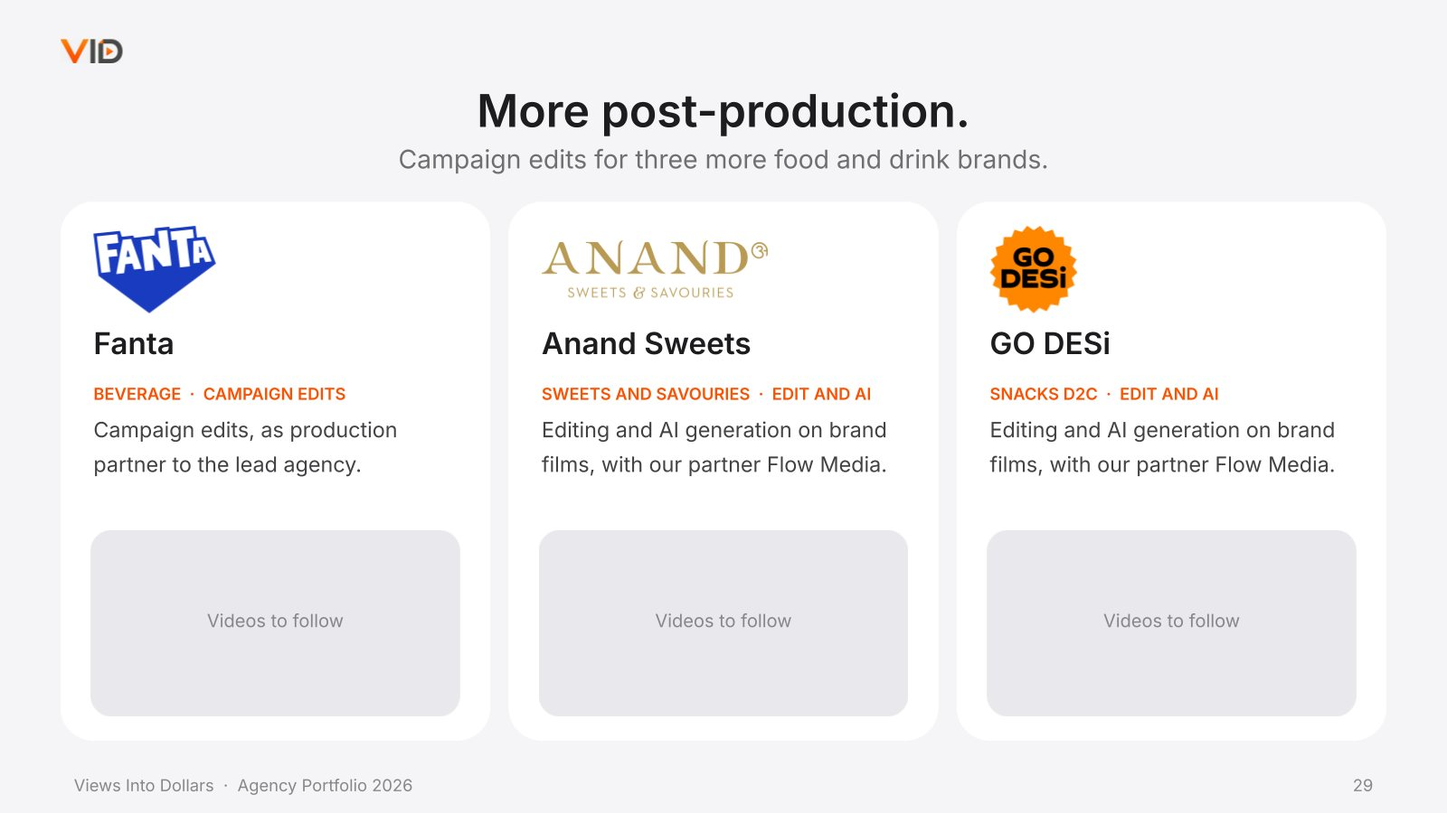
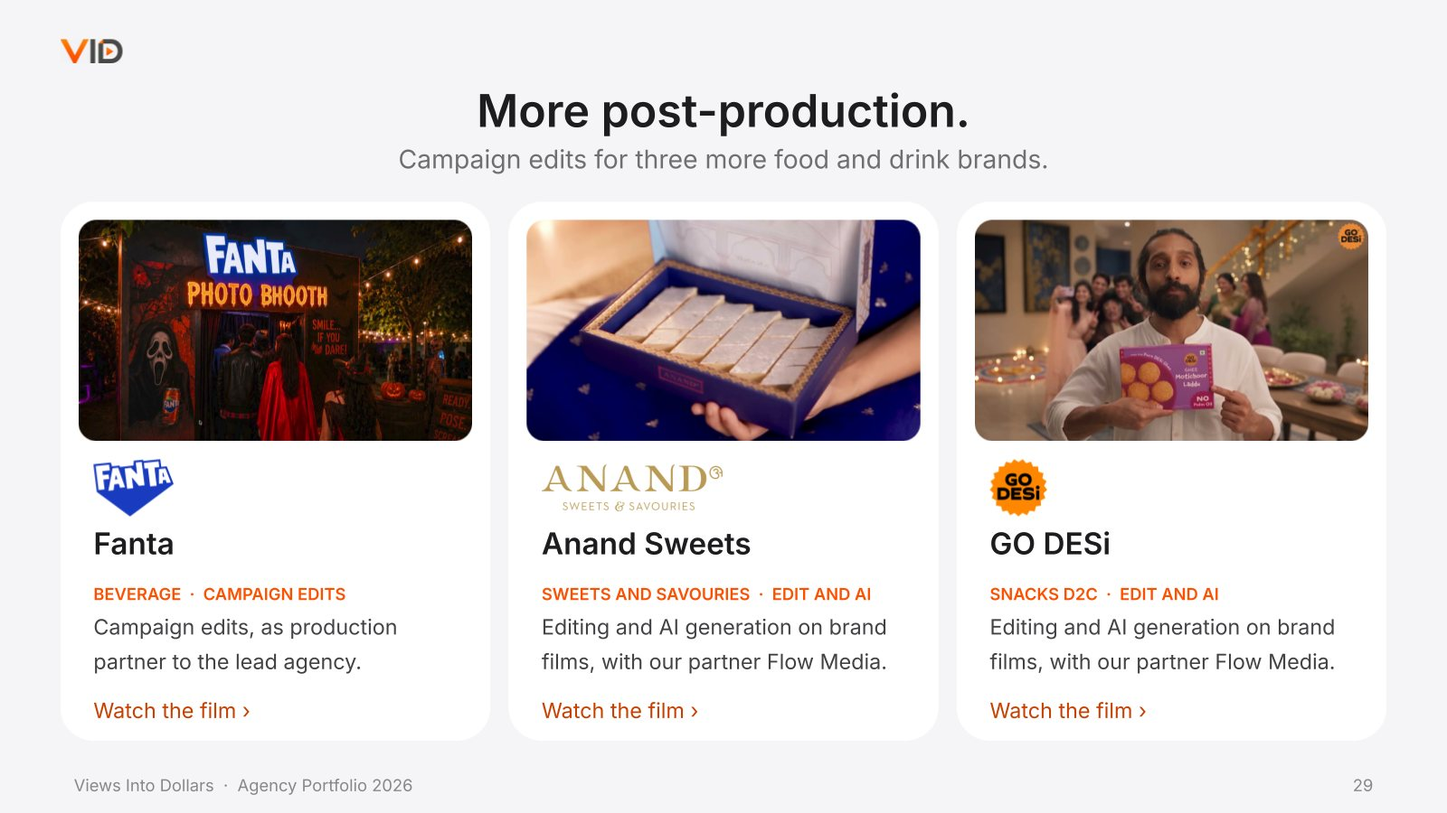
Post-production slide: films for Fanta, Anand Sweets and GO DESi; slide links are clickable on the page

diff --git a/index.html b/index.html
@@ -22,61 +22,64 @@ nav div{display:flex;gap:20px;overflow-x:auto;white-space:nowrap;scrollbar-width
 nav div::-webkit-scrollbar{display:none}
 nav a{color:var(--ink);opacity:.8;text-decoration:none;font-size:13px}
 nav a:hover{opacity:1}
-nav a:focus-visible,main a:focus-visible{outline:2px solid var(--orange);outline-offset:2px;border-radius:6px}
+a:focus-visible{outline:2px solid var(--orange);outline-offset:2px;border-radius:6px}
 main{max-width:1224px;margin:0 auto;padding:var(--gap);display:grid;gap:var(--gap)}
-main a{display:block;border-radius:18px;overflow:hidden}
-main img{display:block;width:100%;height:auto}
+.s{position:relative;border-radius:18px;overflow:hidden}
+.s .f{display:block}
+.s img{display:block;width:100%;height:auto}
+.s .h{position:absolute;border-radius:8px;transition:background-color .2s}
+.s .h:hover{background:rgba(252,81,1,.12)}
 footer{max-width:1224px;margin:0 auto;padding:28px 12px 56px;color:var(--tertiary);font-size:12px;line-height:16px}
-@media (prefers-reduced-motion:reduce){html{scroll-behavior:auto}}
-@media (max-width:734px){main a{border-radius:12px}nav{gap:14px}}
+@media (prefers-reduced-motion:reduce){html{scroll-behavior:auto}.s .h{transition:none}}
+@media (max-width:734px){.s{border-radius:12px}nav{gap:14px}}
 </style>
 </head>
 <body>
-<nav aria-label="Sections"><a href="#top" aria-label="Views Into Dollars, back to top"><img src="assets/vid-logo.png" alt="VID"></a><div><a href="#s0">Organic growth and personal brands</a><a href="#s1">Film and ad production</a><a href="#s2">Post-production</a><a href="#s3">Performance creative</a><a href="#s4">Motion design and explainers</a><a href="#s5">Websites and UI/UX</a><a href="#s6">Our team&#x27;s work</a></div></nav>
-<main id="top">
-<a href="assets/slide-01.jpg"><img src="assets/slide-01.jpg" width="1600" height="900" alt="AGENCY PORTFOLIO 2026 Content that turns views into revenue. Views Into Dollars is a content and growth agency. One team plans, shoots, edits and grows your content, with three spe" decoding="async"></a>
-<a href="assets/slide-02.jpg"><img src="assets/slide-02.jpg" width="1600" height="900" alt="Views Into Dollars · Agency Portfolio 2026 02 Brands we have worked with. 1 of 2 SPORT AND ENTERTAINMENT FIFA World Cup 26 Scuderia Ferrari Silver Sevens Jordindian FINANCE AND INS" decoding="async"></a>
-<a href="assets/slide-03.jpg"><img src="assets/slide-03.jpg" width="1600" height="900" alt="Views Into Dollars · Agency Portfolio 2026 03 Brands we have worked with. 2 of 2 BEAUTY AND PERSONAL CARE Deconstruct Amright Revyur Janma Care HEALTH AND HOME Nutriosa TECH AND B2" loading="lazy" decoding="async"></a>
-<a href="assets/slide-04.jpg"><img src="assets/slide-04.jpg" width="1600" height="900" alt="Views Into Dollars · Agency Portfolio 2026 04 Who does the work. Views Into Dollars leads every engagement. Our partner studios work alongside us. Views Into Dollars Strategy, scri" loading="lazy" decoding="async"></a>
-<a href="assets/slide-05.jpg"><img src="assets/slide-05.jpg" width="1600" height="900" alt="Views Into Dollars · Agency Portfolio 2026 05 The people behind the work. Who you will be working with. Jayesh Sinha Founder Views Into Dollars Swapnil Anand Founder Brands Benchma" loading="lazy" decoding="async"></a>
-<a href="assets/slide-06.jpg"><img src="assets/slide-06.jpg" width="1600" height="900" alt="Views Into Dollars · Agency Portfolio 2026 06 What we do. One partner for the whole job. Social media Strategy, monthly plans, community and reporting. Short-form video Reels and S" loading="lazy" decoding="async"></a>
-<a href="assets/slide-07.jpg"><img src="assets/slide-07.jpg" width="1600" height="900" alt="Views Into Dollars · Agency Portfolio 2026 07 What&#x27;s inside. Seven kinds of work, each with its own section. 01 Organic growth and personal brands Sahaj Talwar, Right Now With Roha" loading="lazy" decoding="async"></a>
-<a id="s0" href="assets/slide-08.jpg"><img src="assets/slide-08.jpg" width="1600" height="900" alt="Views Into Dollars · Agency Portfolio 2026 08 01 Organic growth and personal brands Audiences built from zero, and turned into leads, revenue and a brand people recognise. Sahaj Ta" loading="lazy" decoding="async"></a>
-<a href="assets/slide-09.jpg"><img src="assets/slide-09.jpg" width="1600" height="900" alt="Views Into Dollars · Agency Portfolio 2026 09 Sahaj Talwar Personal brand · Content strategy · Organic leads A self-improvement and life coaching creator with real presence on came" loading="lazy" decoding="async"></a>
-<a href="assets/slide-10.jpg"><img src="assets/slide-10.jpg" width="1600" height="900" alt="Views Into Dollars · Agency Portfolio 2026 10 SAHAJ TALWAR · THE RESULTS 17,000+ organic leads from a comment-to-DM funnel 101K followers 60M+ views 100% organic A reel asks viewer" loading="lazy" decoding="async"></a>
-<a href="assets/slide-11.jpg"><img src="assets/slide-11.jpg" width="1600" height="900" alt="Views Into Dollars · Agency Portfolio 2026 11 Right Now With Rohan Podcast · Distribution · Positioning A Hindi long-form interview podcast hosted by Red FM&#x27;s RJ Rohan, launched fr" loading="lazy" decoding="async"></a>
-<a href="assets/slide-12.jpg"><img src="assets/slide-12.jpg" width="1600" height="900" alt="Views Into Dollars · Agency Portfolio 2026 12 RIGHT NOW WITH ROHAN · THE RESULTS 600M+ views across platforms in a year 262K youtube subscribers 113K instagram followers $40K+ reve" loading="lazy" decoding="async"></a>
-<a href="assets/slide-13.jpg"><img src="assets/slide-13.jpg" width="1600" height="900" alt="Views Into Dollars · Agency Portfolio 2026 13 Expert Panel Financial services · Organic Instagram A debt resolution company that helps people settle with their banks, in a category" loading="lazy" decoding="async"></a>
-<a href="assets/slide-14.jpg"><img src="assets/slide-14.jpg" width="1600" height="900" alt="Views Into Dollars · Agency Portfolio 2026 14 Devraj Pant Creator · Video production and editing A finance creator and co-founder of Preparoo who needed his time back for being on " loading="lazy" decoding="async"></a>
-<a href="assets/slide-15.jpg"><img src="assets/slide-15.jpg" width="1600" height="900" alt="Views Into Dollars · Agency Portfolio 2026 15 Dhru Ronghe @greekgod2208 · Fitness creator · Strategy and production A fitness creator who shares the unpolished side of lifting. We " loading="lazy" decoding="async"></a>
-<a href="assets/slide-16.jpg"><img src="assets/slide-16.jpg" width="1600" height="900" alt="Views Into Dollars · Agency Portfolio 2026 16 DHRU RONGHE · THE RESULTS 67K instagram followers today. Growth numbers to follow. Three headline metrics to follow (views, growth, le" loading="lazy" decoding="async"></a>
-<a href="assets/slide-17.jpg"><img src="assets/slide-17.jpg" width="1600" height="900" alt="Views Into Dollars · Agency Portfolio 2026 17 Nitin Tewari @mr.bartrender · Bartender and creator · Post-production One of India&#x27;s best-known bartenders on Instagram. We handle pos" loading="lazy" decoding="async"></a>
-<a id="s1" href="assets/slide-18.jpg"><img src="assets/slide-18.jpg" width="1600" height="900" alt="Views Into Dollars · Agency Portfolio 2026 18 02 Film and ad production Shoots we directed, shot and cut: brand films, celebrity campaigns, launch days and TVCs. Scuderia Ferrari ×" loading="lazy" decoding="async"></a>
-<a href="assets/slide-19.jpg"><img src="assets/slide-19.jpg" width="1600" height="900" alt="Views Into Dollars · Agency Portfolio 2026 19 Scuderia Ferrari × ZCG Motorsport · Las Vegas Grand Prix 2023 ZCG and the Silver Sevens Hotel and Casino partnered with Scuderia Ferra" loading="lazy" decoding="async"></a>
-<a href="assets/slide-20.jpg"><img src="assets/slide-20.jpg" width="1600" height="900" alt="Views Into Dollars · Agency Portfolio 2026 20 Deconstruct Skincare D2C · Product films · 3D A science-led skincare brand whose serum texture looked wrong on camera, so the ads unde" loading="lazy" decoding="async"></a>
-<a href="assets/slide-21.jpg"><img src="assets/slide-21.jpg" width="1600" height="900" alt="Views Into Dollars · Agency Portfolio 2026 21 Scrub Story Apparel D2C · Creative direction · Launch shoot A medical scrubs brand preparing a launch, burnt by a previous shoot that " loading="lazy" decoding="async"></a>
-<a href="assets/slide-22.jpg"><img src="assets/slide-22.jpg" width="1600" height="900" alt="Views Into Dollars · Agency Portfolio 2026 22 Star Health Insurance Insurance · Celebrity campaign A national health insurance campaign built around celebrity talent. The films wer" loading="lazy" decoding="async"></a>
-<a href="assets/slide-23.jpg"><img src="assets/slide-23.jpg" width="1600" height="900" alt="Views Into Dollars · Agency Portfolio 2026 23 More from the production bench. ProFX: AI brand film A finished AI visual film, art-directed and delivered in half a day. AI speeds up" loading="lazy" decoding="async"></a>
-<a id="s2" href="assets/slide-24.jpg"><img src="assets/slide-24.jpg" width="1600" height="900" alt="Views Into Dollars · Agency Portfolio 2026 24 03 Post-production Footage in, finished films and ads out: edits, motion, captions and versions for every placement. FIFA World Cup 26" loading="lazy" decoding="async"></a>
-<a href="assets/slide-25.jpg"><img src="assets/slide-25.jpg" width="1600" height="900" alt="Views Into Dollars · Agency Portfolio 2026 25 FIFA World Cup 26 Sport · Broadcast campaign · Post-production Campaign work around the FIFA World Cup 26 broadcast on Zee5: huge volu" loading="lazy" decoding="async"></a>
-<a href="assets/slide-26.jpg"><img src="assets/slide-26.jpg" width="1600" height="900" alt="Views Into Dollars · Agency Portfolio 2026 26 FIFA WORLD CUP 26 · THE RESULTS 500+ videos produced in 45 days 90M+ views generated 80K+ followers added" loading="lazy" decoding="async"></a>
-<a href="assets/slide-27.jpg"><img src="assets/slide-27.jpg" width="1600" height="900" alt="Views Into Dollars · Agency Portfolio 2026 27 PhonePe Fintech · Campaign film · Post-production Post-production and editing on campaign films, as production partner to the lead age" loading="lazy" decoding="async"></a>
-<a href="assets/slide-28.jpg"><img src="assets/slide-28.jpg" width="1600" height="900" alt="Views Into Dollars · Agency Portfolio 2026 28 Epigamia D2C food · Campaign film · Post-production Post-production and editing on campaign work for the yoghurt brand, as production " loading="lazy" decoding="async"></a>
-<a href="assets/slide-29.jpg"><img src="assets/slide-29.jpg" width="1600" height="900" alt="Views Into Dollars · Agency Portfolio 2026 29 More post-production. Campaign edits for three more food and drink brands. Fanta BEVERAGE · CAMPAIGN EDITS Campaign edits, as producti" loading="lazy" decoding="async"></a>
-<a href="assets/slide-30.jpg"><img src="assets/slide-30.jpg" width="1600" height="900" alt="Views Into Dollars · Agency Portfolio 2026 30 The D2C ad library. Finished performance ads for consumer brands. Our scope: post-production only. 51 finished ads, cut for 9:16, 1:1 " loading="lazy" decoding="async"></a>
-<a id="s3" href="assets/slide-31.jpg"><img src="assets/slide-31.jpg" width="1600" height="900" alt="Views Into Dollars · Agency Portfolio 2026 31 04 Performance creative Ads built to sell: claims readable at feed speed, archives turned into clips. The Actor&#x27;s Truth · Preparoo · H" loading="lazy" decoding="async"></a>
-<a href="assets/slide-32.jpg"><img src="assets/slide-32.jpg" width="1600" height="900" alt="Views Into Dollars · Agency Portfolio 2026 32 The Actor&#x27;s Truth Education · Content repurposing · Ads An online acting course sitting on 100+ hours of recorded teaching and no shor" loading="lazy" decoding="async"></a>
-<a href="assets/slide-33.jpg"><img src="assets/slide-33.jpg" width="1600" height="900" alt="Views Into Dollars · Agency Portfolio 2026 33 Preparoo Edtech · Performance ad editing An exam prep community across CFA, CAT and CUET, needing ad and short-form edits every month." loading="lazy" decoding="async"></a>
-<a href="assets/slide-34.jpg"><img src="assets/slide-34.jpg" width="1600" height="900" alt="Views Into Dollars · Agency Portfolio 2026 34 House of Veda Organic food and ayurveda D2C · Design Teas, supplements, cold-pressed oils and grains, sold on traditional processing r" loading="lazy" decoding="async"></a>
-<a id="s4" href="assets/slide-35.jpg"><img src="assets/slide-35.jpg" width="1600" height="900" alt="Views Into Dollars · Agency Portfolio 2026 35 05 Motion design and explainers Products with nothing to film, explained in under a minute. Clairon AI · Rawa · Livechance" loading="lazy" decoding="async"></a>
-<a href="assets/slide-36.jpg"><img src="assets/slide-36.jpg" width="1600" height="900" alt="Views Into Dollars · Agency Portfolio 2026 36 Product explainers. Clairon AI An AI product with nothing physical to film. Rawa The product made clear in one short film. Livechance " loading="lazy" decoding="async"></a>
-<a id="s5" href="assets/slide-37.jpg"><img src="assets/slide-37.jpg" width="1600" height="900" alt="Views Into Dollars · Agency Portfolio 2026 37 06 Websites and UI/UX Discovery, wireframes, UI in Figma, prototype, build handoff. Twelve industries so far, with Brands Benchmark. H" loading="lazy" decoding="async"></a>
-<a href="assets/slide-38.jpg"><img src="assets/slide-38.jpg" width="1600" height="900" alt="Views Into Dollars · Agency Portfolio 2026 38 Website design. 1 of 2 Healthcare Media production Perfume Devotional retail Home furnishing Optical retail" loading="lazy" decoding="async"></a>
-<a href="assets/slide-39.jpg"><img src="assets/slide-39.jpg" width="1600" height="900" alt="Views Into Dollars · Agency Portfolio 2026 39 Website design. 2 of 2 Furniture Speciality coffee Cosmetics Luxury accessories Agriculture retail Makhana" loading="lazy" decoding="async"></a>
-<a id="s6" href="assets/slide-40.jpg"><img src="assets/slide-40.jpg" width="1600" height="900" alt="Views Into Dollars · Agency Portfolio 2026 40 07 Our team&#x27;s work Social, brand and content work led by members of our team. Atharva Oceana · Renv8 Spaces · Nutriosa · Janma Care · " loading="lazy" decoding="async"></a>
-<a href="assets/slide-41.jpg"><img src="assets/slide-41.jpg" width="1600" height="900" alt="Views Into Dollars · Agency Portfolio 2026 41 Brand and social content. Feeds, campaigns and launches run by our team. Atharva Oceana 65% increase in reach 500K+ campaign impressio" loading="lazy" decoding="async"></a>
-<a href="assets/slide-42.jpg"><img src="assets/slide-42.jpg" width="1600" height="900" alt="Views Into Dollars · Agency Portfolio 2026 42 More from the team. Social and content work led by members of our team. Food Entrepreneurs Summit EVENTS ReliefVeda AYURVEDA SBOOCH KO" loading="lazy" decoding="async"></a>
-<a href="assets/slide-43.jpg"><img src="assets/slide-43.jpg" width="1600" height="900" alt="Views Into Dollars · Agency Portfolio 2026 43 Let&#x27;s make something worth watching. Jayesh jayesh@viewsintodollars.com Phone +91 91121 37827 Swapnil swapnil@brandsbenchmark.com" loading="lazy" decoding="async"></a>
+<nav aria-label="Sections"><a href="#n1" aria-label="Views Into Dollars, back to top"><img src="assets/vid-logo.png" alt="VID"></a><div><a href="#n8">Organic growth and personal brands</a><a href="#n18">Film and ad production</a><a href="#n24">Post-production</a><a href="#n31">Performance creative</a><a href="#n35">Motion design and explainers</a><a href="#n37">Websites and UI/UX</a><a href="#n40">Our team&#x27;s work</a></div></nav>
+<main>
+<div class="s" id="n1"><a class="f" href="assets/slide-01.jpg"><img src="assets/slide-01.jpg" width="1600" height="900" alt="AGENCY PORTFOLIO 2026 Content that turns views into revenue. Views Into Dollars is a content and growth agency. One team plans, shoots, edits and grows your content, with three spe" decoding="async"></a><a class="h" href="#n8" aria-label="See the work" style="left:5.83%;top:84.44%;width:12.16%;height:5.56%"></a><a class="h" href="#n2" aria-label="The brands" style="left:19.24%;top:84.44%;width:10.94%;height:5.56%"></a></div>
+<div class="s" id="n2"><a class="f" href="assets/slide-02.jpg"><img src="assets/slide-02.jpg" width="1600" height="900" alt="Views Into Dollars · Agency Portfolio 2026 02 Brands we have worked with. 1 of 2 SPORT AND ENTERTAINMENT FIFA World Cup 26 Scuderia Ferrari Silver Sevens Jordindian FINANCE AND INS" decoding="async"></a></div>
+<div class="s" id="n3"><a class="f" href="assets/slide-03.jpg"><img src="assets/slide-03.jpg" width="1600" height="900" alt="Views Into Dollars · Agency Portfolio 2026 03 Brands we have worked with. 2 of 2 BEAUTY AND PERSONAL CARE Deconstruct Amright Revyur Janma Care HEALTH AND HOME Nutriosa TECH AND B2" loading="lazy" decoding="async"></a></div>
+<div class="s" id="n4"><a class="f" href="assets/slide-04.jpg"><img src="assets/slide-04.jpg" width="1600" height="900" alt="Views Into Dollars · Agency Portfolio 2026 04 Who does the work. Views Into Dollars leads every engagement. Our partner studios work alongside us. Views Into Dollars Strategy, scri" loading="lazy" decoding="async"></a></div>
+<div class="s" id="n5"><a class="f" href="assets/slide-05.jpg"><img src="assets/slide-05.jpg" width="1600" height="900" alt="Views Into Dollars · Agency Portfolio 2026 05 The people behind the work. Who you will be working with. Jayesh Sinha Founder Views Into Dollars Swapnil Anand Founder Brands Benchma" loading="lazy" decoding="async"></a></div>
+<div class="s" id="n6"><a class="f" href="assets/slide-06.jpg"><img src="assets/slide-06.jpg" width="1600" height="900" alt="Views Into Dollars · Agency Portfolio 2026 06 What we do. One partner for the whole job. Social media Strategy, monthly plans, community and reporting. Short-form video Reels and S" loading="lazy" decoding="async"></a></div>
+<div class="s" id="n7"><a class="f" href="assets/slide-07.jpg"><img src="assets/slide-07.jpg" width="1600" height="900" alt="Views Into Dollars · Agency Portfolio 2026 07 What&#x27;s inside. Seven kinds of work, each with its own section. 01 Organic growth and personal brands Sahaj Talwar, Right Now With Roha" loading="lazy" decoding="async"></a></div>
+<div class="s" id="n8"><a class="f" href="assets/slide-08.jpg"><img src="assets/slide-08.jpg" width="1600" height="900" alt="Views Into Dollars · Agency Portfolio 2026 08 01 Organic growth and personal brands Audiences built from zero, and turned into leads, revenue and a brand people recognise. Sahaj Ta" loading="lazy" decoding="async"></a></div>
+<div class="s" id="n9"><a class="f" href="assets/slide-09.jpg"><img src="assets/slide-09.jpg" width="1600" height="900" alt="Views Into Dollars · Agency Portfolio 2026 09 Sahaj Talwar Personal brand · Content strategy · Organic leads A self-improvement and life coaching creator with real presence on came" loading="lazy" decoding="async"></a></div>
+<div class="s" id="n10"><a class="f" href="assets/slide-10.jpg"><img src="assets/slide-10.jpg" width="1600" height="900" alt="Views Into Dollars · Agency Portfolio 2026 10 SAHAJ TALWAR · THE RESULTS 17,000+ organic leads from a comment-to-DM funnel 101K followers 60M+ views 100% organic A reel asks viewer" loading="lazy" decoding="async"></a></div>
+<div class="s" id="n11"><a class="f" href="assets/slide-11.jpg"><img src="assets/slide-11.jpg" width="1600" height="900" alt="Views Into Dollars · Agency Portfolio 2026 11 Right Now With Rohan Podcast · Distribution · Positioning A Hindi long-form interview podcast hosted by Red FM&#x27;s RJ Rohan, launched fr" loading="lazy" decoding="async"></a></div>
+<div class="s" id="n12"><a class="f" href="assets/slide-12.jpg"><img src="assets/slide-12.jpg" width="1600" height="900" alt="Views Into Dollars · Agency Portfolio 2026 12 RIGHT NOW WITH ROHAN · THE RESULTS 600M+ views across platforms in a year 262K youtube subscribers 113K instagram followers $40K+ reve" loading="lazy" decoding="async"></a></div>
+<div class="s" id="n13"><a class="f" href="assets/slide-13.jpg"><img src="assets/slide-13.jpg" width="1600" height="900" alt="Views Into Dollars · Agency Portfolio 2026 13 Expert Panel Financial services · Organic Instagram A debt resolution company that helps people settle with their banks, in a category" loading="lazy" decoding="async"></a></div>
+<div class="s" id="n14"><a class="f" href="assets/slide-14.jpg"><img src="assets/slide-14.jpg" width="1600" height="900" alt="Views Into Dollars · Agency Portfolio 2026 14 Devraj Pant Creator · Video production and editing A finance creator and co-founder of Preparoo who needed his time back for being on " loading="lazy" decoding="async"></a></div>
+<div class="s" id="n15"><a class="f" href="assets/slide-15.jpg"><img src="assets/slide-15.jpg" width="1600" height="900" alt="Views Into Dollars · Agency Portfolio 2026 15 Dhru Ronghe @greekgod2208 · Fitness creator · Strategy and production A fitness creator who shares the unpolished side of lifting. We " loading="lazy" decoding="async"></a></div>
+<div class="s" id="n16"><a class="f" href="assets/slide-16.jpg"><img src="assets/slide-16.jpg" width="1600" height="900" alt="Views Into Dollars · Agency Portfolio 2026 16 DHRU RONGHE · THE RESULTS 67K instagram followers today. Growth numbers to follow. Three headline metrics to follow (views, growth, le" loading="lazy" decoding="async"></a></div>
+<div class="s" id="n17"><a class="f" href="assets/slide-17.jpg"><img src="assets/slide-17.jpg" width="1600" height="900" alt="Views Into Dollars · Agency Portfolio 2026 17 Nitin Tewari @mr.bartrender · Bartender and creator · Post-production One of India&#x27;s best-known bartenders on Instagram. We handle pos" loading="lazy" decoding="async"></a></div>
+<div class="s" id="n18"><a class="f" href="assets/slide-18.jpg"><img src="assets/slide-18.jpg" width="1600" height="900" alt="Views Into Dollars · Agency Portfolio 2026 18 02 Film and ad production Shoots we directed, shot and cut: brand films, celebrity campaigns, launch days and TVCs. Scuderia Ferrari ×" loading="lazy" decoding="async"></a></div>
+<div class="s" id="n19"><a class="f" href="assets/slide-19.jpg"><img src="assets/slide-19.jpg" width="1600" height="900" alt="Views Into Dollars · Agency Portfolio 2026 19 Scuderia Ferrari × ZCG Motorsport · Las Vegas Grand Prix 2023 ZCG and the Silver Sevens Hotel and Casino partnered with Scuderia Ferra" loading="lazy" decoding="async"></a></div>
+<div class="s" id="n20"><a class="f" href="assets/slide-20.jpg"><img src="assets/slide-20.jpg" width="1600" height="900" alt="Views Into Dollars · Agency Portfolio 2026 20 Deconstruct Skincare D2C · Product films · 3D A science-led skincare brand whose serum texture looked wrong on camera, so the ads unde" loading="lazy" decoding="async"></a></div>
+<div class="s" id="n21"><a class="f" href="assets/slide-21.jpg"><img src="assets/slide-21.jpg" width="1600" height="900" alt="Views Into Dollars · Agency Portfolio 2026 21 Scrub Story Apparel D2C · Creative direction · Launch shoot A medical scrubs brand preparing a launch, burnt by a previous shoot that " loading="lazy" decoding="async"></a></div>
+<div class="s" id="n22"><a class="f" href="assets/slide-22.jpg"><img src="assets/slide-22.jpg" width="1600" height="900" alt="Views Into Dollars · Agency Portfolio 2026 22 Star Health Insurance Insurance · Celebrity campaign A national health insurance campaign built around celebrity talent. The films wer" loading="lazy" decoding="async"></a></div>
+<div class="s" id="n23"><a class="f" href="assets/slide-23.jpg"><img src="assets/slide-23.jpg" width="1600" height="900" alt="Views Into Dollars · Agency Portfolio 2026 23 More from the production bench. ProFX: AI brand film A finished AI visual film, art-directed and delivered in half a day. AI speeds up" loading="lazy" decoding="async"></a></div>
+<div class="s" id="n24"><a class="f" href="assets/slide-24.jpg"><img src="assets/slide-24.jpg" width="1600" height="900" alt="Views Into Dollars · Agency Portfolio 2026 24 03 Post-production Footage in, finished films and ads out: edits, motion, captions and versions for every placement. FIFA World Cup 26" loading="lazy" decoding="async"></a></div>
+<div class="s" id="n25"><a class="f" href="assets/slide-25.jpg"><img src="assets/slide-25.jpg" width="1600" height="900" alt="Views Into Dollars · Agency Portfolio 2026 25 FIFA World Cup 26 Sport · Broadcast campaign · Post-production Campaign work around the FIFA World Cup 26 broadcast on Zee5: huge volu" loading="lazy" decoding="async"></a></div>
+<div class="s" id="n26"><a class="f" href="assets/slide-26.jpg"><img src="assets/slide-26.jpg" width="1600" height="900" alt="Views Into Dollars · Agency Portfolio 2026 26 FIFA WORLD CUP 26 · THE RESULTS 500+ videos produced in 45 days 90M+ views generated 80K+ followers added" loading="lazy" decoding="async"></a></div>
+<div class="s" id="n27"><a class="f" href="assets/slide-27.jpg"><img src="assets/slide-27.jpg" width="1600" height="900" alt="Views Into Dollars · Agency Portfolio 2026 27 PhonePe Fintech · Campaign film · Post-production Post-production and editing on campaign films, as production partner to the lead age" loading="lazy" decoding="async"></a></div>
+<div class="s" id="n28"><a class="f" href="assets/slide-28.jpg"><img src="assets/slide-28.jpg" width="1600" height="900" alt="Views Into Dollars · Agency Portfolio 2026 28 Epigamia D2C food · Campaign film · Post-production Post-production and editing on campaign work for the yoghurt brand, as production " loading="lazy" decoding="async"></a></div>
+<div class="s" id="n29"><a class="f" href="assets/slide-29.jpg"><img src="assets/slide-29.jpg" width="1600" height="900" alt="Views Into Dollars · Agency Portfolio 2026 29 More post-production. Campaign edits for three more food and drink brands. Fanta BEVERAGE · CAMPAIGN EDITS Campaign edits, as producti" loading="lazy" decoding="async"></a><a class="h" href="https://f.io/-JLRb_pE" target="_blank" rel="noopener" aria-label="Watch the film" style="left:5.42%;top:27.04%;width:27.22%;height:27.22%"></a><a class="h" href="https://f.io/-JLRb_pE" target="_blank" rel="noopener" aria-label="Watch the film ›" style="left:5.52%;top:85.56%;width:27.01%;height:4.08%"></a><a class="h" href="https://www.instagram.com/reel/DfCPw4ZB6Az/" target="_blank" rel="noopener" aria-label="Watch the film" style="left:36.39%;top:27.04%;width:27.22%;height:27.22%"></a><a class="h" href="https://www.instagram.com/reel/DfCPw4ZB6Az/" target="_blank" rel="noopener" aria-label="Watch the film ›" style="left:36.49%;top:85.56%;width:27.01%;height:4.08%"></a><a class="h" href="https://www.instagram.com/reel/DewTfLAzKmW/" target="_blank" rel="noopener" aria-label="Watch the film" style="left:67.36%;top:27.04%;width:27.22%;height:27.22%"></a><a class="h" href="https://www.instagram.com/reel/DewTfLAzKmW/" target="_blank" rel="noopener" aria-label="Watch the film ›" style="left:67.46%;top:85.56%;width:27.01%;height:4.08%"></a></div>
+<div class="s" id="n30"><a class="f" href="assets/slide-30.jpg"><img src="assets/slide-30.jpg" width="1600" height="900" alt="Views Into Dollars · Agency Portfolio 2026 30 The D2C ad library. Finished performance ads for consumer brands. Our scope: post-production only. 51 finished ads, cut for 9:16, 1:1 " loading="lazy" decoding="async"></a></div>
+<div class="s" id="n31"><a class="f" href="assets/slide-31.jpg"><img src="assets/slide-31.jpg" width="1600" height="900" alt="Views Into Dollars · Agency Portfolio 2026 31 04 Performance creative Ads built to sell: claims readable at feed speed, archives turned into clips. The Actor&#x27;s Truth · Preparoo · H" loading="lazy" decoding="async"></a></div>
+<div class="s" id="n32"><a class="f" href="assets/slide-32.jpg"><img src="assets/slide-32.jpg" width="1600" height="900" alt="Views Into Dollars · Agency Portfolio 2026 32 The Actor&#x27;s Truth Education · Content repurposing · Ads An online acting course sitting on 100+ hours of recorded teaching and no shor" loading="lazy" decoding="async"></a></div>
+<div class="s" id="n33"><a class="f" href="assets/slide-33.jpg"><img src="assets/slide-33.jpg" width="1600" height="900" alt="Views Into Dollars · Agency Portfolio 2026 33 Preparoo Edtech · Performance ad editing An exam prep community across CFA, CAT and CUET, needing ad and short-form edits every month." loading="lazy" decoding="async"></a></div>
+<div class="s" id="n34"><a class="f" href="assets/slide-34.jpg"><img src="assets/slide-34.jpg" width="1600" height="900" alt="Views Into Dollars · Agency Portfolio 2026 34 House of Veda Organic food and ayurveda D2C · Design Teas, supplements, cold-pressed oils and grains, sold on traditional processing r" loading="lazy" decoding="async"></a></div>
+<div class="s" id="n35"><a class="f" href="assets/slide-35.jpg"><img src="assets/slide-35.jpg" width="1600" height="900" alt="Views Into Dollars · Agency Portfolio 2026 35 05 Motion design and explainers Products with nothing to film, explained in under a minute. Clairon AI · Rawa · Livechance" loading="lazy" decoding="async"></a></div>
+<div class="s" id="n36"><a class="f" href="assets/slide-36.jpg"><img src="assets/slide-36.jpg" width="1600" height="900" alt="Views Into Dollars · Agency Portfolio 2026 36 Product explainers. Clairon AI An AI product with nothing physical to film. Rawa The product made clear in one short film. Livechance " loading="lazy" decoding="async"></a></div>
+<div class="s" id="n37"><a class="f" href="assets/slide-37.jpg"><img src="assets/slide-37.jpg" width="1600" height="900" alt="Views Into Dollars · Agency Portfolio 2026 37 06 Websites and UI/UX Discovery, wireframes, UI in Figma, prototype, build handoff. Twelve industries so far, with Brands Benchmark. H" loading="lazy" decoding="async"></a></div>
+<div class="s" id="n38"><a class="f" href="assets/slide-38.jpg"><img src="assets/slide-38.jpg" width="1600" height="900" alt="Views Into Dollars · Agency Portfolio 2026 38 Website design. 1 of 2 Healthcare Media production Perfume Devotional retail Home furnishing Optical retail" loading="lazy" decoding="async"></a></div>
+<div class="s" id="n39"><a class="f" href="assets/slide-39.jpg"><img src="assets/slide-39.jpg" width="1600" height="900" alt="Views Into Dollars · Agency Portfolio 2026 39 Website design. 2 of 2 Furniture Speciality coffee Cosmetics Luxury accessories Agriculture retail Makhana" loading="lazy" decoding="async"></a></div>
+<div class="s" id="n40"><a class="f" href="assets/slide-40.jpg"><img src="assets/slide-40.jpg" width="1600" height="900" alt="Views Into Dollars · Agency Portfolio 2026 40 07 Our team&#x27;s work Social, brand and content work led by members of our team. Atharva Oceana · Renv8 Spaces · Nutriosa · Janma Care · " loading="lazy" decoding="async"></a></div>
+<div class="s" id="n41"><a class="f" href="assets/slide-41.jpg"><img src="assets/slide-41.jpg" width="1600" height="900" alt="Views Into Dollars · Agency Portfolio 2026 41 Brand and social content. Feeds, campaigns and launches run by our team. Atharva Oceana 65% increase in reach 500K+ campaign impressio" loading="lazy" decoding="async"></a></div>
+<div class="s" id="n42"><a class="f" href="assets/slide-42.jpg"><img src="assets/slide-42.jpg" width="1600" height="900" alt="Views Into Dollars · Agency Portfolio 2026 42 More from the team. Social and content work led by members of our team. Food Entrepreneurs Summit EVENTS ReliefVeda AYURVEDA SBOOCH KO" loading="lazy" decoding="async"></a></div>
+<div class="s" id="n43"><a class="f" href="assets/slide-43.jpg"><img src="assets/slide-43.jpg" width="1600" height="900" alt="Views Into Dollars · Agency Portfolio 2026 43 Let&#x27;s make something worth watching. Jayesh jayesh@viewsintodollars.com Phone +91 91121 37827 Swapnil swapnil@brandsbenchmark.com" loading="lazy" decoding="async"></a></div>
 </main>
 <footer>Views Into Dollars. Agency Portfolio 2026. Tap a slide to open it full size.</footer>
 </body>
